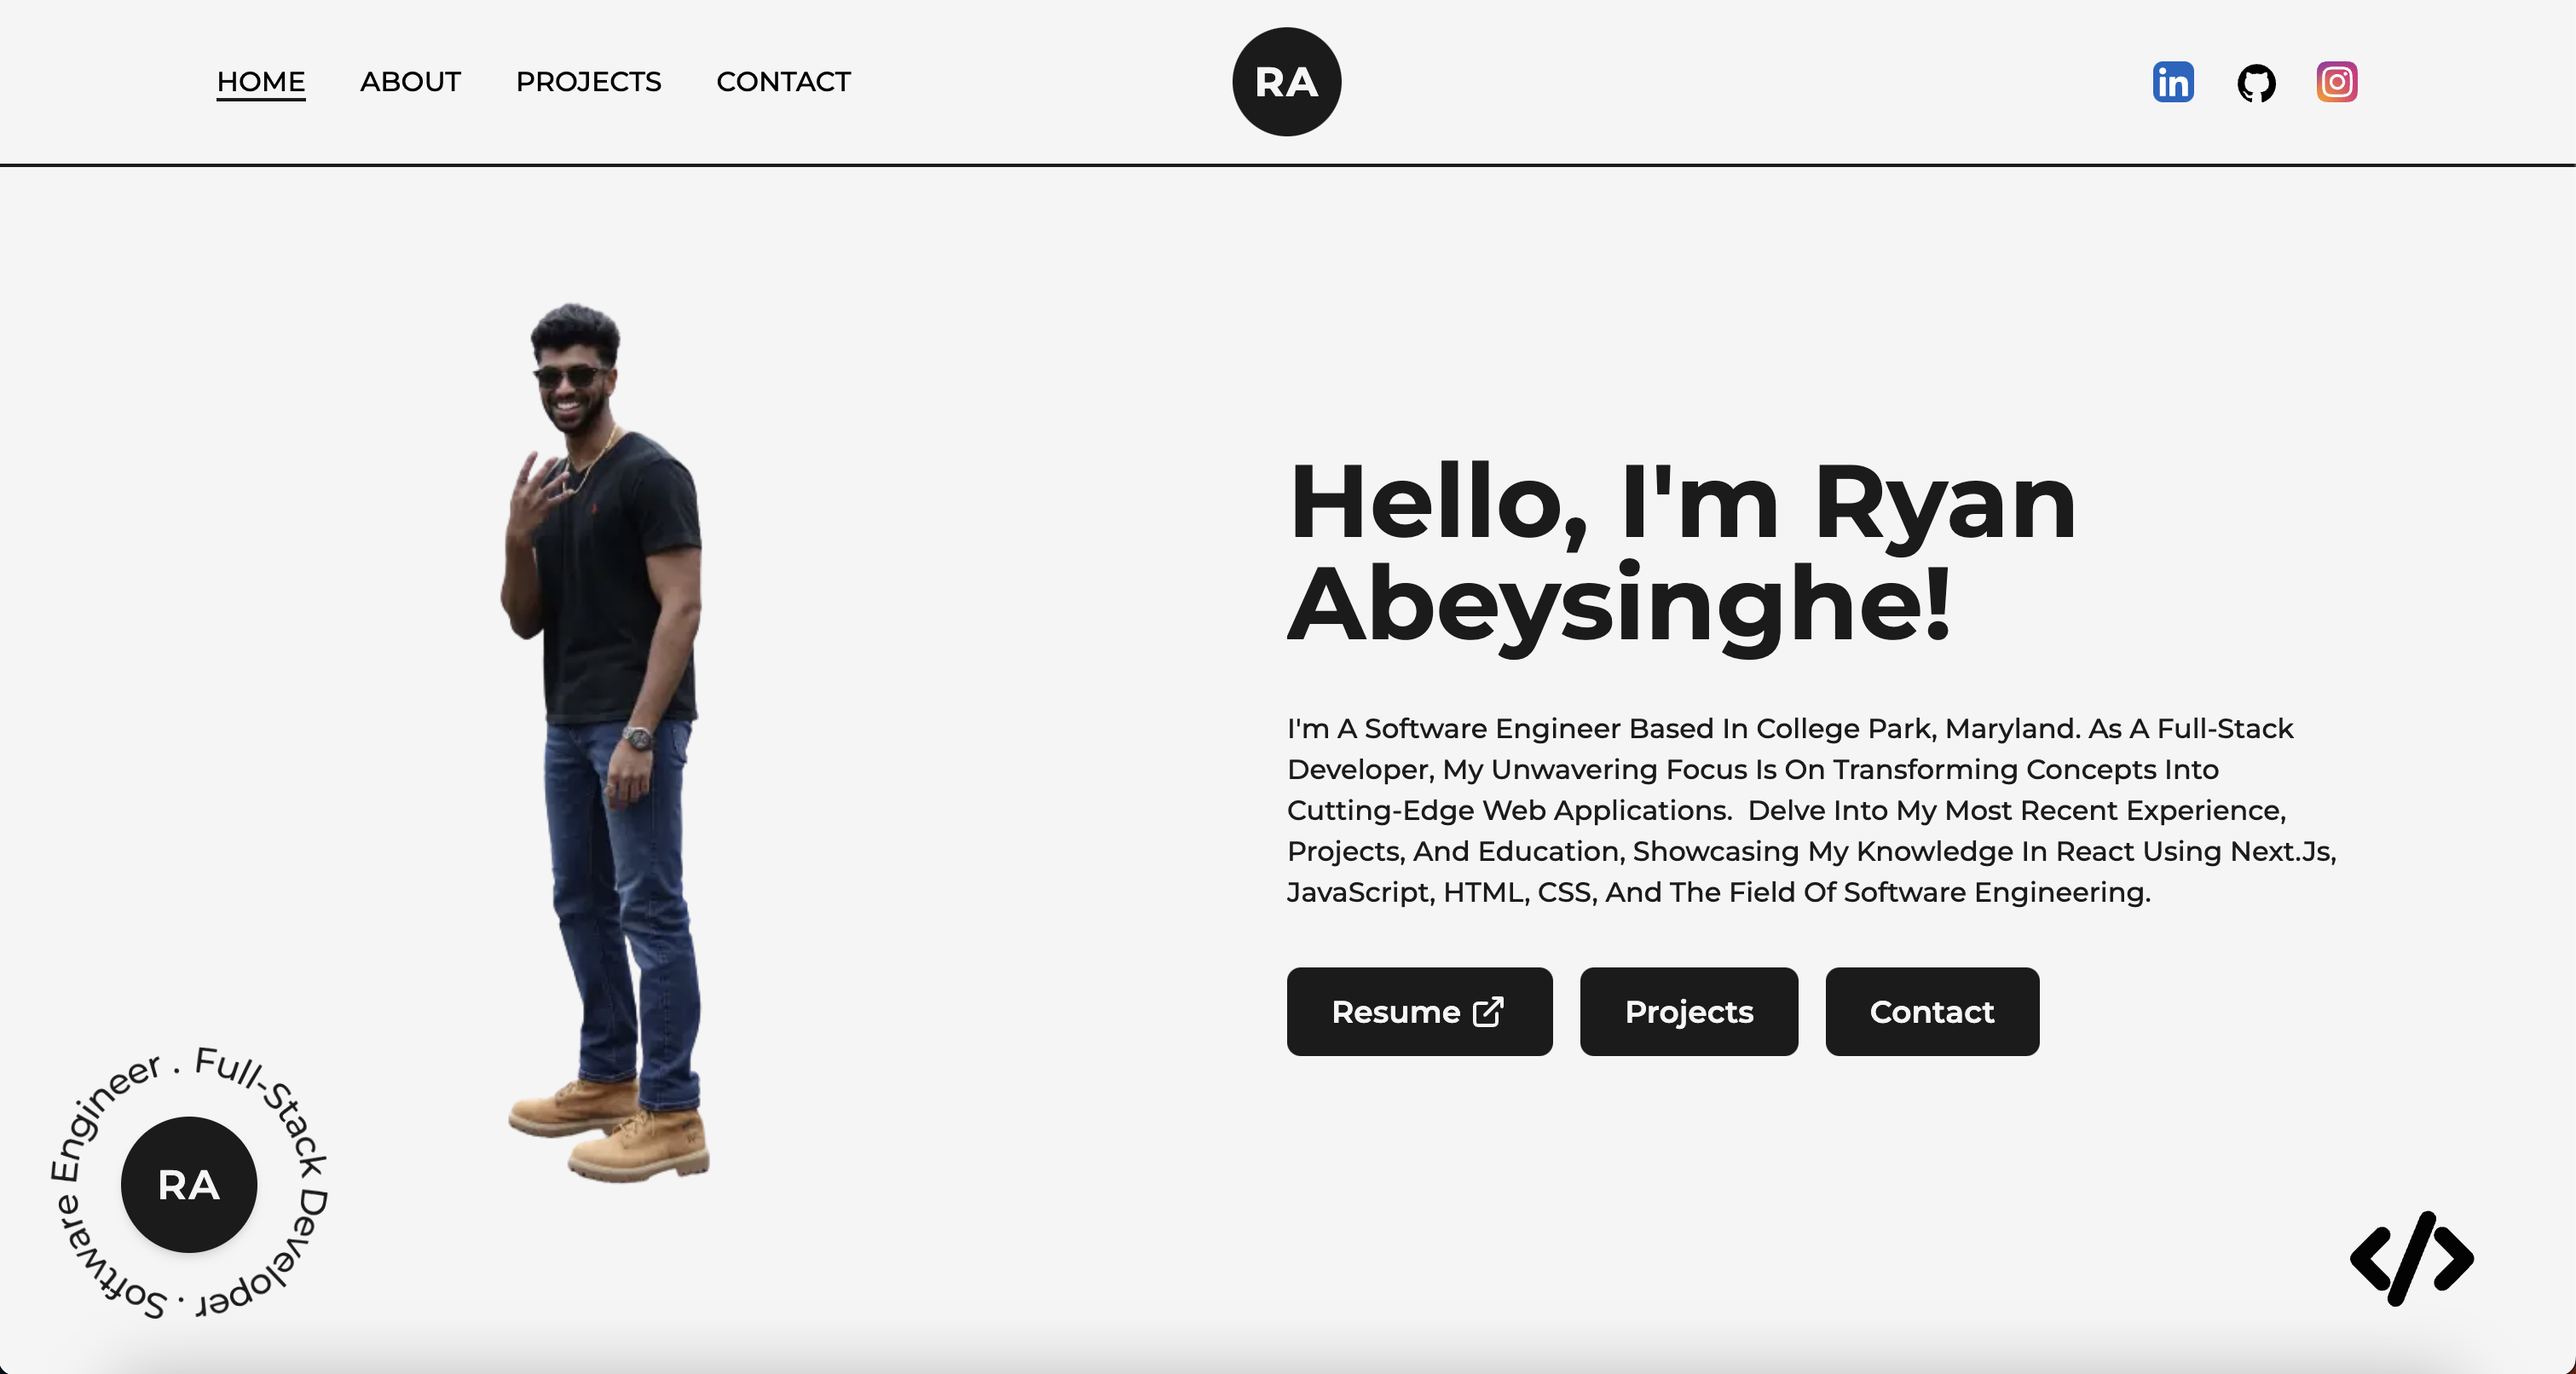
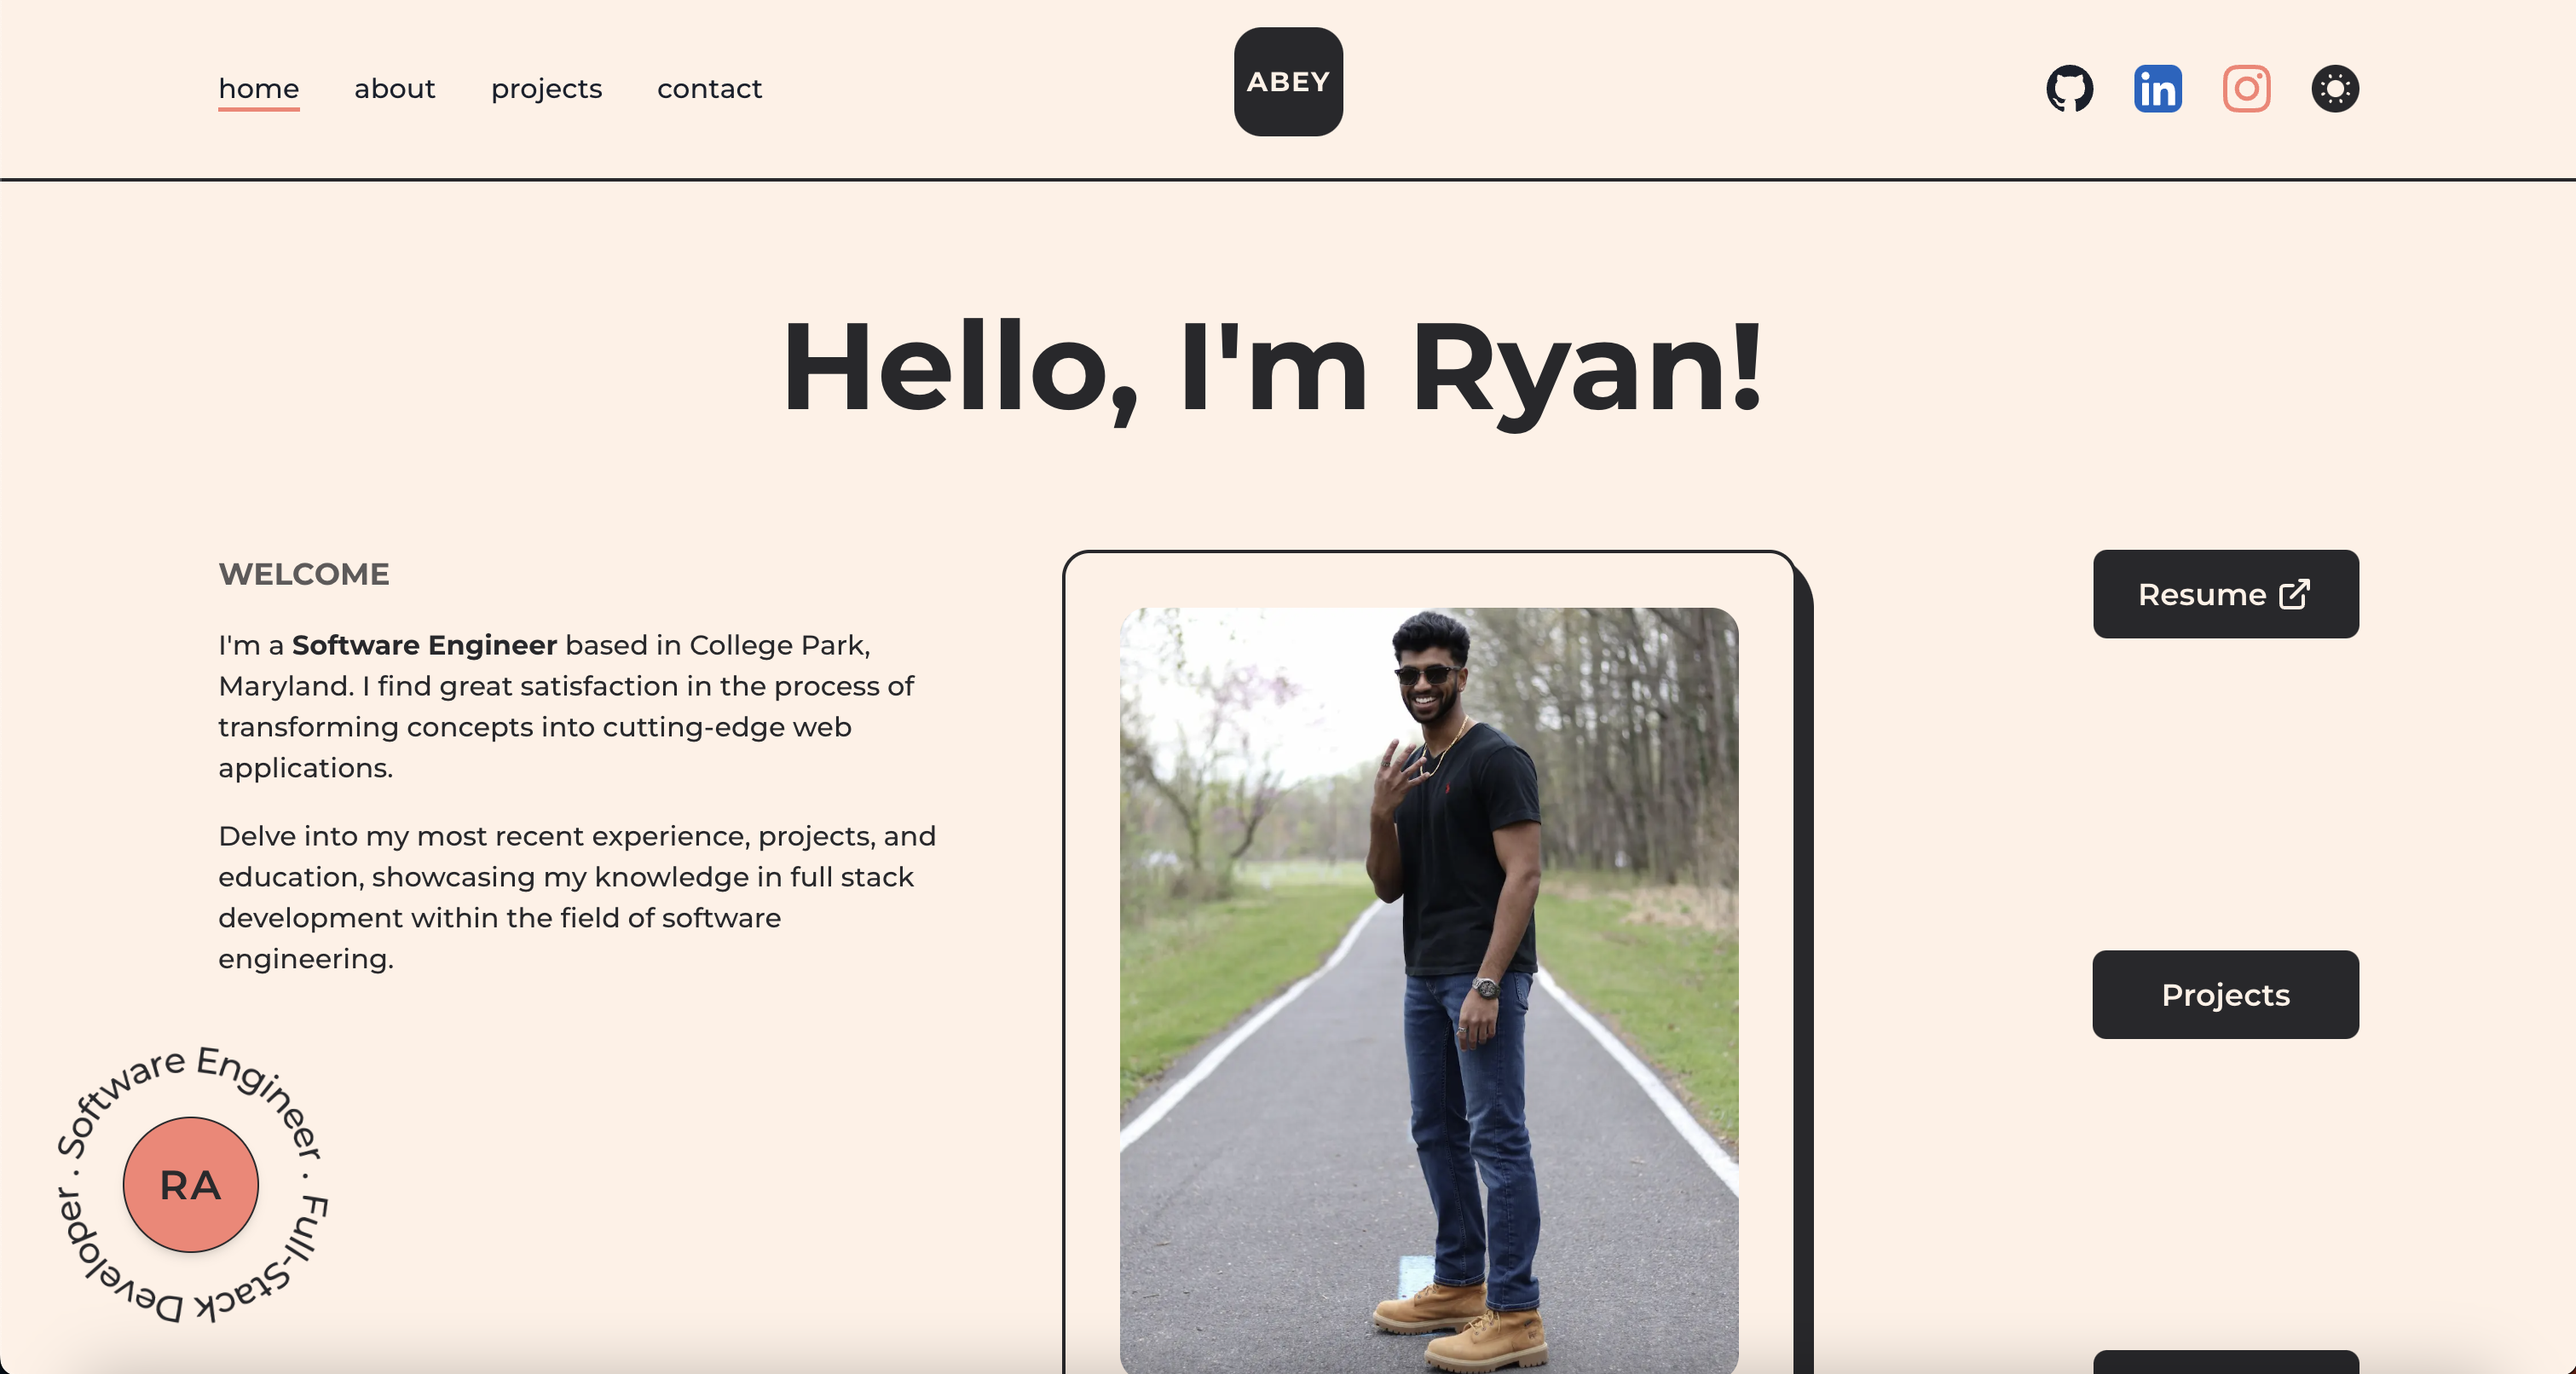
updating home and about introduction page

diff --git a/src/pages/index.js b/src/pages/index.js
@@ -48,18 +48,18 @@ export default function Home() {
 
               <div className='font-medium text-dark dark:text-light md:text-lg xs:text-base xxxs:text-sm'>
                 {/* <TextAnimation text='Lorem ipsum dolor sit amet, consectetur adipiscing elit, sed do eiusmod tempor incididunt ut labore et dolore magna aliqua. Vulputate eu scelerisque felis imperdiet. Dolor morbi non arcu risus quis varius quam.' className='!text-base !font-medium !text-left' /> */}
-                Lorem ipsum dolor sit amet, consectetur adipiscing elit, sed do eiusmod tempor incididunt ut labore et dolore magna aliqua. Vulputate eu scelerisque felis imperdiet. Dolor morbi non arcu risus quis varius quam.
+                I'm a <strong>Software Engineer</strong> based in College Park, Maryland. I find great satisfaction in the process of transforming concepts into cutting-edge web applications.   
               </div>
 
               <div className='my-4 font-medium text-dark dark:text-light md:text-lg xs:text-base xxxs:text-sm'>
                 {/* <TextAnimation text='Lorem ipsum dolor sit amet, consectetur adipiscing elit, sed do eiusmod tempor incididunt ut labore et dolore magna aliqua. Vulputate eu scelerisque felis imperdiet. Dolor morbi non arcu risus quis varius quam.' className='!text-base !font-medium !text-left' /> */}
-                Lorem ipsum dolor sit amet, consectetur adipiscing elit, sed do eiusmod tempor incididunt ut labore et dolore magna aliqua. Vulputate eu scelerisque felis imperdiet. Dolor morbi non arcu risus quis varius quam.
+                Delve into my most recent experience, projects, and education, showcasing my knowledge in full stack development within the field of software engineering. 
               </div>
 
-              <div className='font-medium text-dark dark:text-light md:text-lg xs:text-base xxxs:text-sm'>
-                {/* <TextAnimation text='Lorem ipsum dolor sit amet, consectetur adipiscing elit, sed do eiusmod tempor incididunt ut labore et dolore magna aliqua. Vulputate eu scelerisque felis imperdiet. Dolor morbi non arcu risus quis varius quam.' className='!text-base !font-medium !text-left' /> */}
+              {/* <div className='font-medium text-dark dark:text-light md:text-lg xs:text-base xxxs:text-sm'>
+                <TextAnimation text='Lorem ipsum dolor sit amet, consectetur adipiscing elit, sed do eiusmod tempor incididunt ut labore et dolore magna aliqua. Vulputate eu scelerisque felis imperdiet. Dolor morbi non arcu risus quis varius quam.' className='!text-base !font-medium !text-left' />
                 Lorem ipsum dolor sit amet, consectetur adipiscing elit, sed do eiusmod tempor incididunt ut labore et dolore magna aliqua. Vulputate eu scelerisque felis imperdiet. Dolor morbi non arcu risus quis varius quam.
-              </div>
+              </div> */}
 
             </div>
 

diff --git a/src/pages/about.js b/src/pages/about.js
@@ -70,15 +70,15 @@ const About = () => {
                         <div className='col-span-3 flex flex-col items-start justify-start xl:col-span-4 md:order-2 md:col-span-8 md:mt-8'>
                             <h2 className='mb-4 text-lg font-bold uppercase text-dark/75 dark:text-light/75 md:text-2xl sm:text-xl xs:text-lg xxxs:text-base'>About Me</h2>
                             <p className='font-medium text-dark dark:text-light md:text-lg xs:text-base xxxs:text-sm'>
-                                Lorem ipsum dolor sit amet, consectetur adipiscing elit, sed do eiusmod tempor incididunt ut labore et dolore magna aliqua. Vulputate eu scelerisque felis imperdiet. Dolor morbi non arcu risus quis varius quam.
+                                As a full stack developer, I have a comprehensive understanding of both front-end and back-end development. I enjoy utilizing the entire technology stack required to build and deploy web applications. I strive to be well-versed in all aspects of the development process. 
                             </p>
 
                             <p className='my-4 font-medium text-dark dark:text-light md:text-lg xs:text-base xxxs:text-sm'>
-                                Lorem ipsum dolor sit amet, consectetur adipiscing elit, sed do eiusmod tempor incididunt ut labore et dolore magna aliqua. Pretium quam vulputate dignissim suspendisse in est ante in nibh. Et tortor at risus viverra adipiscing at in.
+                                Technology is constantly evolving and changing, and as a full stack developer, I understand the significance of staying up to date with the latest technologies, trends, and tools. I'm always eager to expand my knowledge and embrace new technologies that can enhance the development process.
                             </p>
 
                             <p className='font-medium text-dark dark:text-light md:text-lg xs:text-base xxxs:text-sm'>
-                                Lorem ipsum dolor sit amet, consectetur adipiscing elit, sed do eiusmod tempor incididunt ut labore et dolore magna aliqua. Aenean et tortor at risus viverra adipiscing at. Blandit massa enim nec dui nunc mattis enim.
+                                Outside of my professional career, I find myself immersed in a world of thrilling physical and mental challenges as a dedicated gym rat, capturing fleeting moments and transforming them into visual stories as an aspiring photographer, and embracing the electrifying atmosphere of sports as an enthusiast.
                             </p>
 
                         </div>
